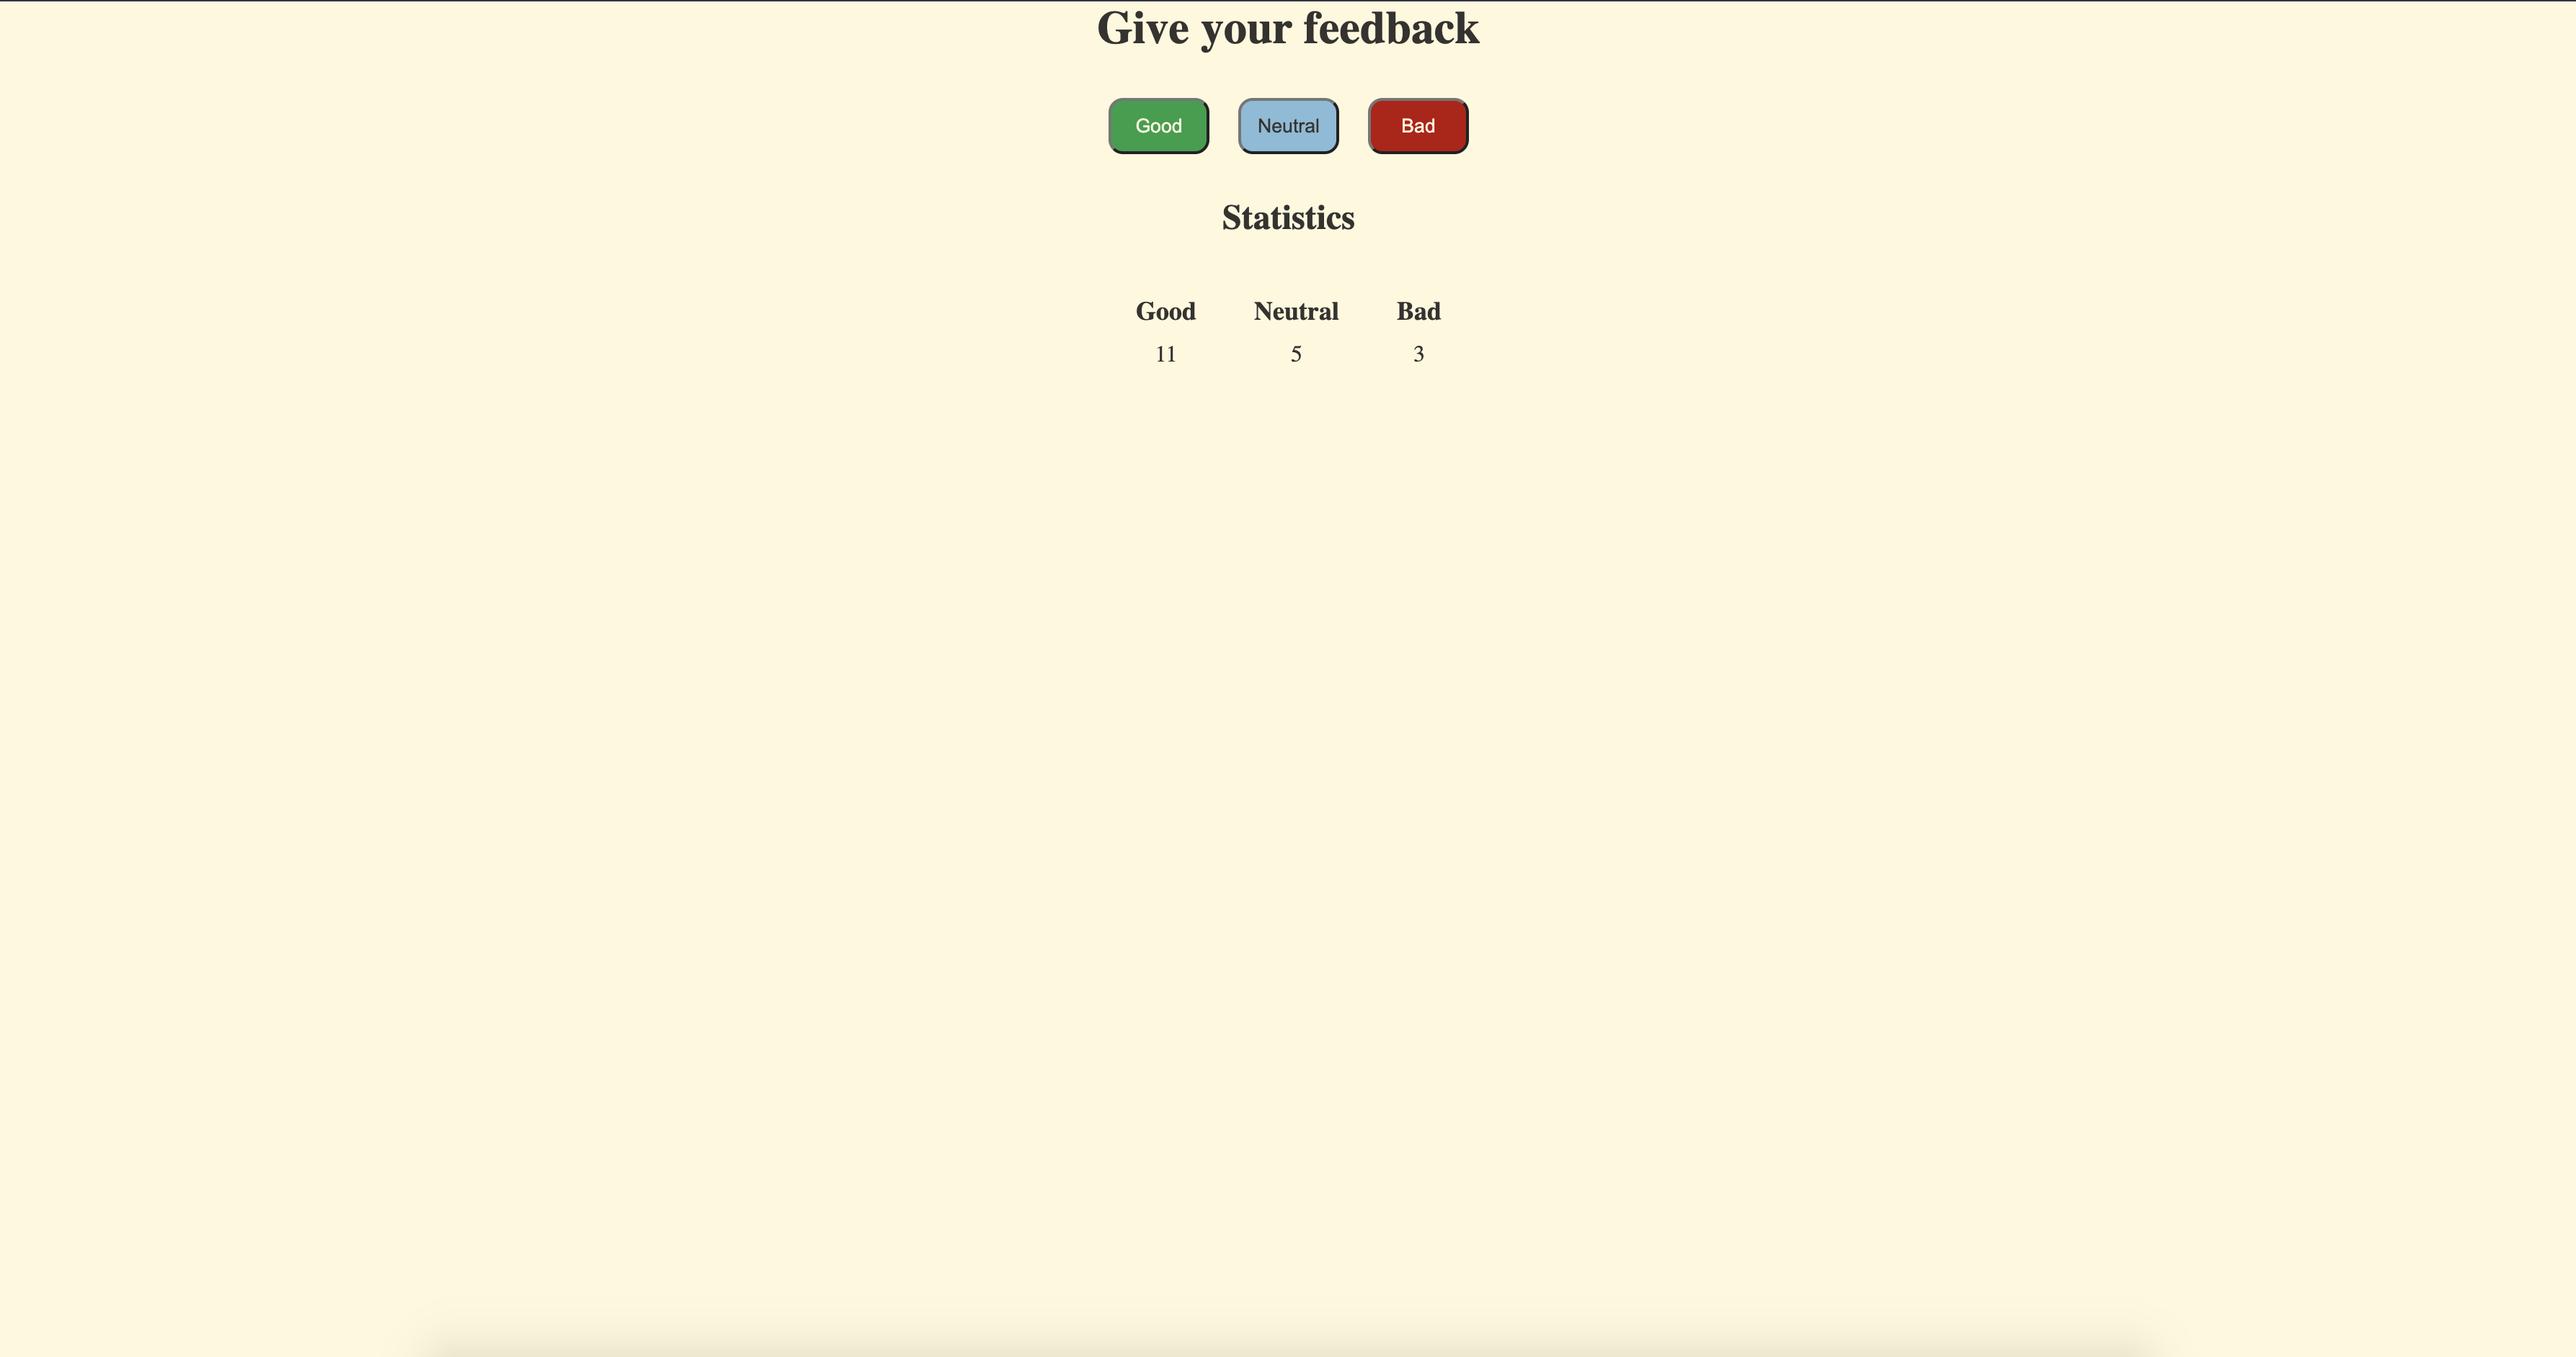
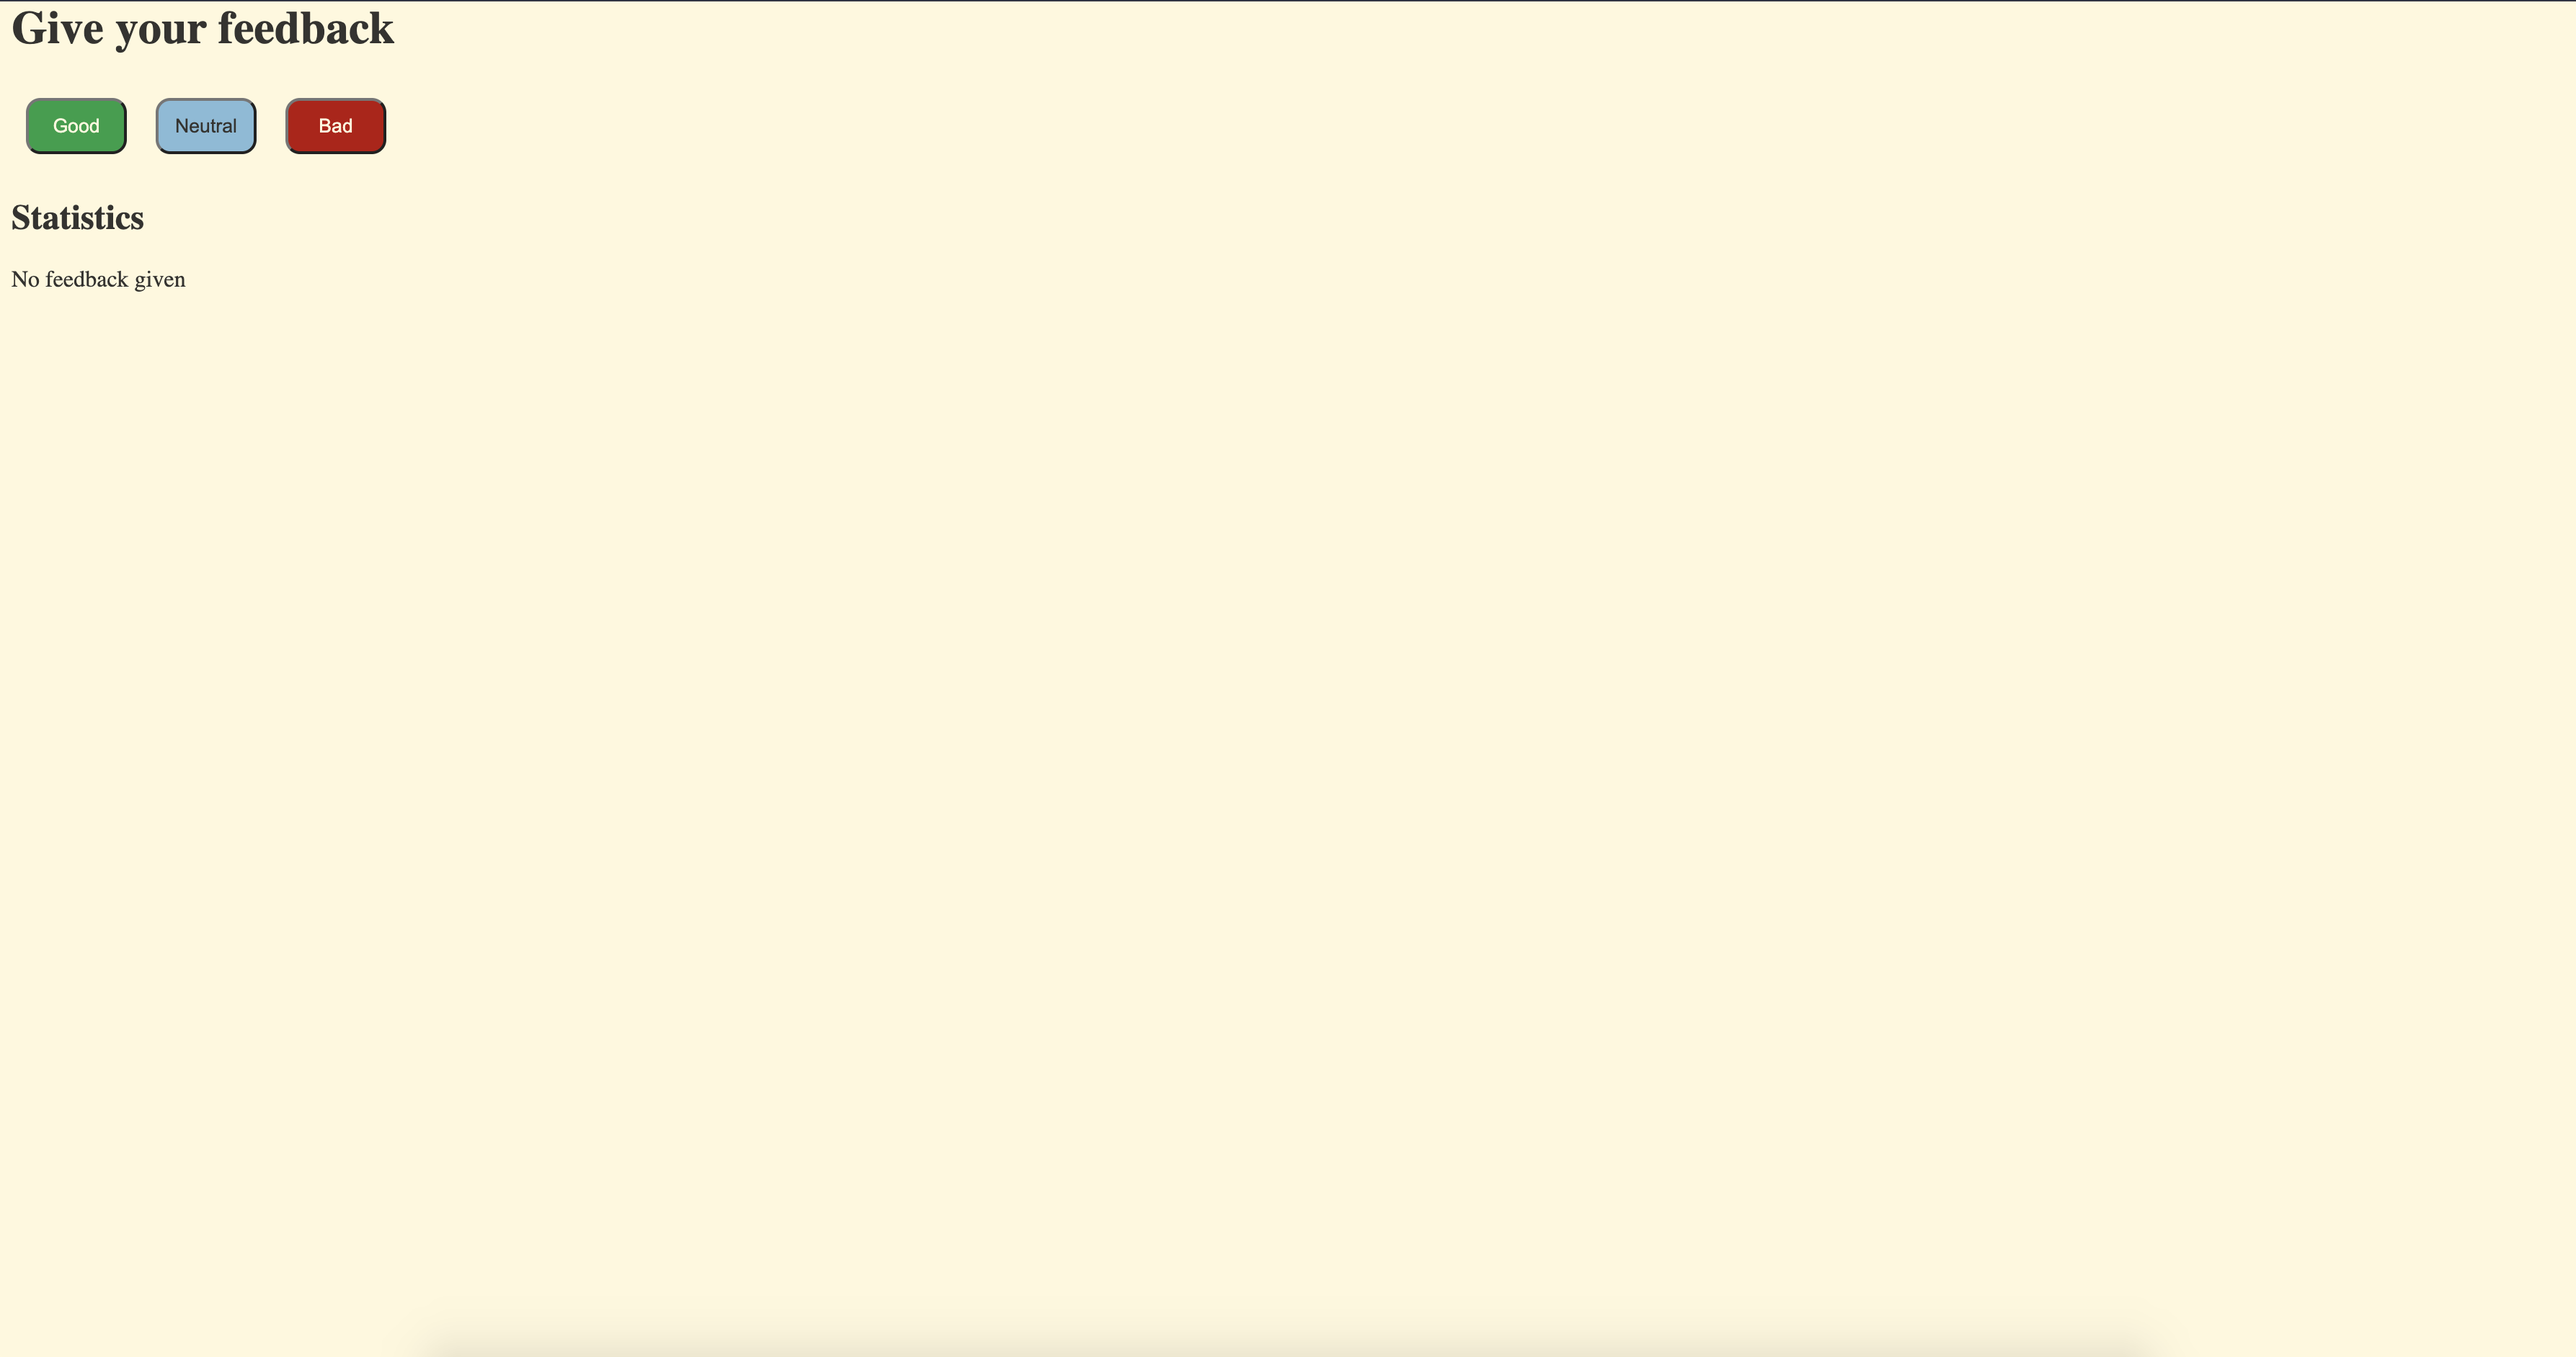
Exercise 1.11

diff --git a/part1/unicafe/src/index.js b/part1/unicafe/src/index.js
@@ -4,10 +4,14 @@ import './index.css';
 
 const Statistic = ({ text, value, isPercentage=false }) => {
   return (
-    <div>
-      <label>{text}</label> 
-      {value} {isPercentage && '%'}
-    </div>
+    <tr>
+      <td>
+        <label>{text}</label> 
+      </td>
+      <td>
+        {value} {isPercentage && '%'}
+      </td>      
+    </tr>
   );
 };
 
@@ -36,14 +40,16 @@ const Statistics = ({
       <h2>Statistics</h2>
       <div className="statistics-section">
       {feedbacksQuantity > 0 ? (
-        <>
-          <Statistic text="Good" value={goodFeedbacks} />
-          <Statistic text="Neutral" value={neutralFeedbacks} />
-          <Statistic text="Bad" value={badFeedbacks} />
-          <Statistic text="All" value={feedbacksQuantity} />
-          <Statistic text="Average" value={average} />
-          <Statistic text="Positive" value={positive} isPercentage/>
-        </>
+        <table>
+          <tbody>
+            <Statistic text="Good" value={goodFeedbacks} />
+            <Statistic text="Neutral" value={neutralFeedbacks} />
+            <Statistic text="Bad" value={badFeedbacks} />
+            <Statistic text="All" value={feedbacksQuantity} />
+            <Statistic text="Average" value={average} />
+            <Statistic text="Positive" value={positive} isPercentage/>
+          </tbody>
+        </table>
       ) :
       (
         <div>

diff --git a/part1/unicafe/src/index.css b/part1/unicafe/src/index.css
@@ -7,7 +7,8 @@
 .App {
   background-color: #fff8dc;
   height: 100vh;
-  text-align: center;
+  /* text-align: center; */
+  padding-left: 10px;
   width: 100%;
 }
 
@@ -47,19 +48,8 @@
   background-color: #B80C09;
 }
 
-.statistics-section {
-  justify-content: center;
-  display: flex;
-}
-
-.statistics-section div {
-  display: flex;
-  flex-direction: column;
-  margin: 20px;
-}
-
-.statistics-section div label {
+.statistics-section td label {
   font-size: 18px;
   font-weight: bold;
-  margin-bottom: 10px;
+  margin: 0 10px 10px 0;
 }

diff --git a/part1/unicafe/README.md b/part1/unicafe/README.md
@@ -1,3 +1,4 @@
 # Getting Started - Unicafe
 
 ![Application Screenshot](./.github/app_screenshot.png)
+![Application Screenshot](./.github/app_screenshot2.png)
